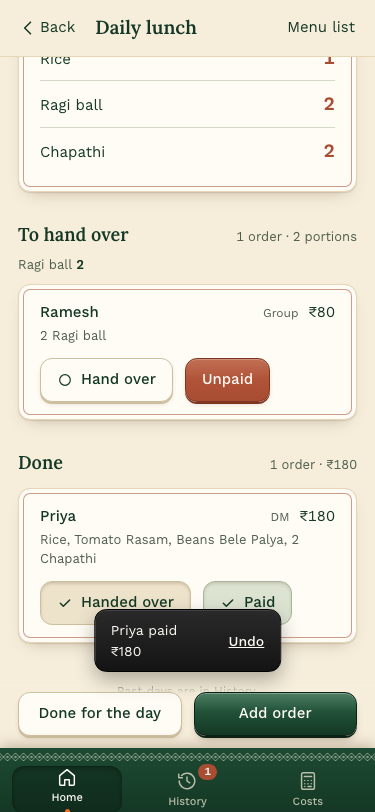
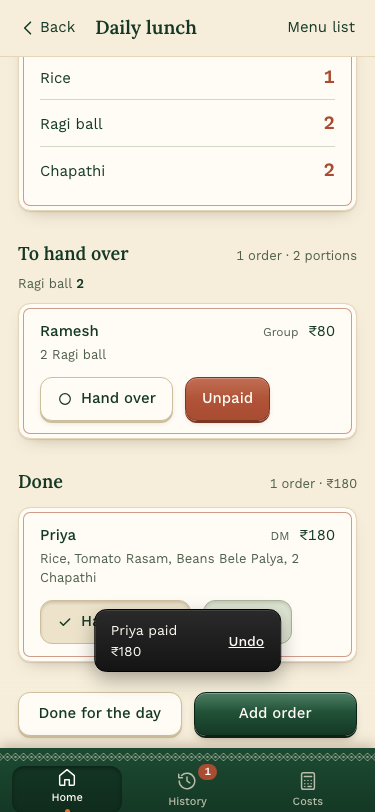
Keep a tapped order in place until you leave the screen
Hand over and Paid no longer jump the order to another section, so Paid
can follow Hand over on the same row.

Changed region(s): [[0.0293, 0.0616, 0.968, 0.8313]]

diff --git a/site/public/index.html b/site/public/index.html
@@ -794,13 +794,13 @@ function route(){
 }
 function go(h){
   if(h!==current&&!leaveRecipeOk()) return;
-  var same=(h===current); current=h;
+  var same=(h===current); current=h; if(!same) held={o:{}};
   if(!same&&canPush){ try{ history.pushState(null,"",h); }catch(e){ canPush=false; } }
   closeSheet(true); render(); if(!same) window.scrollTo(0,0);
 }
 window.addEventListener("popstate",function(){
   if((location.hash||"#/")!==current&&!leaveRecipeOk()){ try{ history.pushState(null,"",current); }catch(e){} return; }
-  current=location.hash||"#/"; closeSheet(true); render(); window.scrollTo(0,0); });
+  current=location.hash||"#/"; held={o:{}}; closeSheet(true); render(); window.scrollTo(0,0); });
 document.addEventListener("click",function(e){
   var a=e.target.closest&&e.target.closest('a[href^="#"]');
   if(!a||e.defaultPrevented||e.metaKey||e.ctrlKey) return;
@@ -950,18 +950,22 @@ function eventBody(ev){
       (kc.length?'<div class="card pad count">'+rows+'</div>':'<p class="empty">No items on this menu.</p>')+'</div>'+
     orderSections(ev,orders);
 }
-/* orders still to hand over first, then handed over but unpaid, then done */
+/* orders still to hand over first, then handed over but unpaid, then done.
+   An order tapped on this screen keeps its place until you leave it, so Paid can follow Hand over. */
+var held={o:{}};
+function hold(o){ if(!held.o[o.id]) held.o[o.id]={delivered:!!o.delivered,paid:!!o.paid}; }
 function orderSections(ev,orders){
   if(!orders.length) return '<div class="section"><h2>Orders</h2><p class="empty">No orders yet. Tap Add order when one comes in on WhatsApp.</p></div>';
-  var toGo=orders.filter(function(o){return !o.delivered;});
-  var owe=orders.filter(function(o){return o.delivered&&!o.paid&&!o.untracked;});
-  var done=orders.filter(function(o){return o.delivered&&(o.paid||o.untracked);});
-  toGo.sort(function(a,b){ return (a.paid?1:0)-(b.paid?1:0)||(a.t||0)-(b.t||0); });
+  function st(o){ return held.o[o.id]||o; }
+  var toGo=orders.filter(function(o){return !st(o).delivered;});
+  var owe=orders.filter(function(o){var x=st(o);return x.delivered&&!x.paid&&!o.untracked;});
+  var done=orders.filter(function(o){var x=st(o);return x.delivered&&(x.paid||o.untracked);});
+  toGo.sort(function(a,b){ return (st(a).paid?1:0)-(st(b).paid?1:0)||(a.t||0)-(b.t||0); });
   function sec(title,list,aside,lead){ return list.length?'<div class="section"><h2>'+title+'<span class="aside num">'+aside+'</span></h2>'+(lead||'')+'<div class="list">'+list.map(function(o){return orderRow(ev,o);}).join("")+'</div></div>':''; }
   function sum(list){ return rupee(list.reduce(function(a,o){return a+orderTotal(ev,o);},0)); }
   var lkc=kitchenCount(ev,function(o){return !o.delivered;}).filter(function(c){return c.q;});
   var lead=lkc.length?'<p class="sub leftline" style="margin:-4px 0 10px">'+lkc.map(function(c){ var kgU=ev.kind==="batter"||(ev.kind==="drop"&&c.it.unit==="kg"); return esc(c.it.name)+' <b class="num">'+(kgU?fmtKg(c.q):c.q)+'</b>'; }).join(" · ")+'</p>':'';
-  return sec("To hand over",toGo,plural(toGo.length,"order")+" · "+qtyText(ev,lkc),lead)+
+  return sec("To hand over",toGo,plural(toGo.filter(function(o){return !o.delivered;}).length,"order")+" · "+qtyText(ev,lkc),lead)+
     sec("Handed over, not paid",owe,sum(owe))+
     sec("Done",done,plural(done.length,"order")+" · "+sum(done));
 }
@@ -982,8 +986,8 @@ function orderRow(ev,o){
     '<div class="ctl">'+del+pay+chg+'</div></div>';
 }
 function findOrder(evId,oId){ var ev=S.events[evId]; if(!ev) return {}; return {ev:ev,o:ev.orders.filter(function(o){return o.id===oId;})[0]}; }
-function toggleDel(evId,oId){ var f=findOrder(evId,oId); if(!f.o) return; f.o.delivered=!f.o.delivered; save(); render(); }
-function togglePaid(evId,oId){ var f=findOrder(evId,oId); if(!f.o) return; f.o.paid=!f.o.paid; f.o.paidAt=f.o.paid?Date.now():null; save(); render();
+function toggleDel(evId,oId){ var f=findOrder(evId,oId); if(!f.o) return; hold(f.o); f.o.delivered=!f.o.delivered; save(); render(); }
+function togglePaid(evId,oId){ var f=findOrder(evId,oId); if(!f.o) return; hold(f.o); f.o.paid=!f.o.paid; f.o.paidAt=f.o.paid?Date.now():null; save(); render();
   toast(f.o.paid?(f.o.name||"Order")+" paid "+rupee(orderTotal(f.ev,f.o)):"Marked unpaid",f.o.paid?function(){f.o.paid=false;f.o.paidAt=null;save();render();}:null); }
 function giveChange(evId,oId){ var f=findOrder(evId,oId); if(!f.o) return; f.o.changeGiven=true; save(); render();
   toast("Change given to "+(f.o.name||"customer"),function(){f.o.changeGiven=false;save();render();}); }
